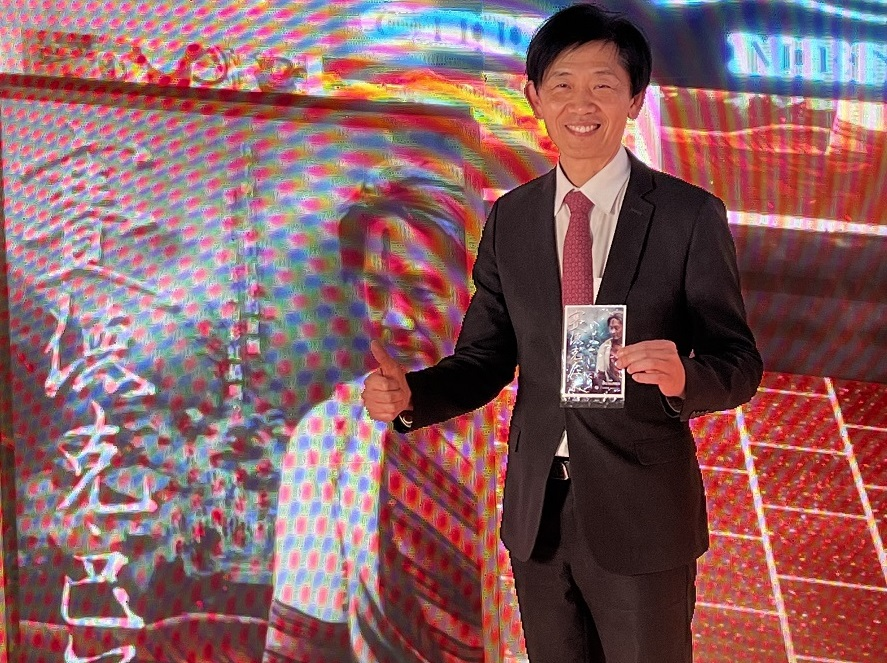
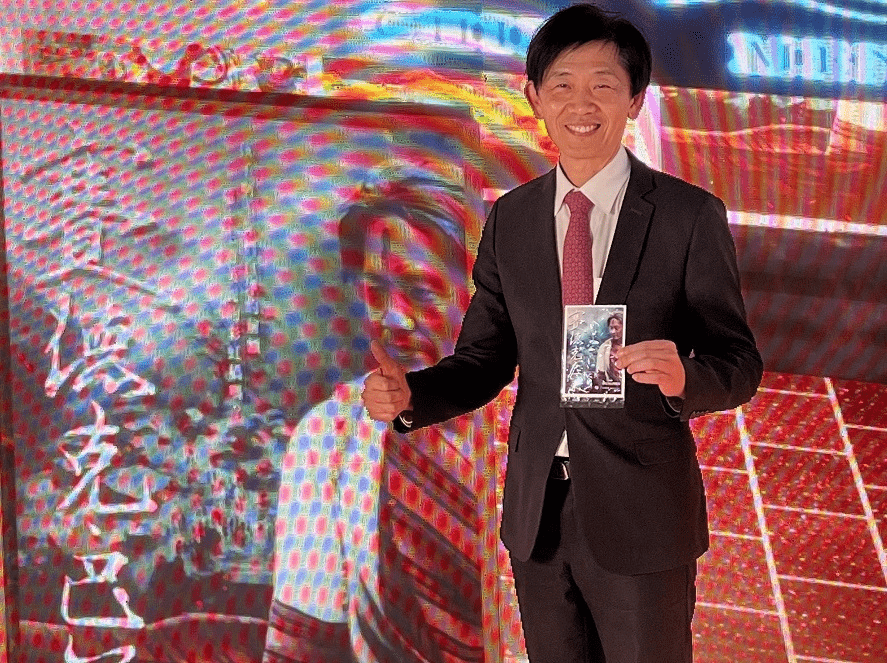
修整AI文件產生問題
- 圖片壓縮
- 文字修正

diff --git a/index.html b/index.html
@@ -1,5 +1,6 @@
 <!DOCTYPE html>
-<html lang="zh-TW" style="font-size: 16px; --primary-color: #000000; --secondary-color: #ffffff; --global-padding: 20px; --global-padding-small: 10px; --global-radius: 18px; --global-size: 80px;">
+<html lang="zh-TW"
+    style="font-size: 16px; --primary-color: #000000; --secondary-color: #ffffff; --global-padding: 20px; --global-padding-small: 10px; --global-radius: 18px; --global-size: 80px;">
 <!--     
             Hello there, nice to see someone who opened the source code of my portfolio.
             I'm Jay Wu, a frontend developer / real-time interactive engineer.
@@ -17,6 +18,7 @@
 
               Pure HTML CSS
 -->
+
 <head>
     <meta charset="UTF-8">
     <meta name="viewport" content="width=device-width, initial-scale=1.0">
@@ -34,15 +36,20 @@
     <main>
         <section id="about">
             <div class="intro-container">
-                <p class="intro-cn">嗨我是 Jay，一位擅長跨領域整合的系統工程師。專業領域涵蓋形象網站開發、網頁動效製作、現場互動體驗以及 VJ 即時投影視覺，致力於打造虛實整合的互動系統。同時專精於效能優化，包括 GPU 算圖加速與 LLM Token 最佳化，確保系統運作流暢高效。</p>
-                <p class="intro-en">Hi, I'm Jay, a System Integration Engineer specializing in cross-disciplinary solutions. My expertise spans brand website development, web animation, on-site interactive installations, and real-time VJ projection mapping, dedicated to creating seamless immersive experiences. I also excel in performance optimization, including GPU rendering acceleration and LLM token optimization, ensuring efficient and smooth system operations.</p>
+                <p class="intro-cn">嗨我是 Jay，一位擅長跨領域整合的系統工程師。專業領域涵蓋形象網站開發、網頁動效製作、現場互動體驗以及 VJ
+                    即時投影視覺，致力於打造虛實整合的互動系統。同時專精於效能優化，包括 GPU 算圖加速與 LLM Token 最佳化，確保系統運作流暢高效。</p>
+                <p class="intro-en">Hi, I'm Jay, a System Integration Engineer specializing in cross-disciplinary
+                    solutions. My expertise spans brand website development, web animation, on-site interactive
+                    installations, and real-time VJ projection mapping, dedicated to creating seamless immersive
+                    experiences. I also excel in performance optimization, including GPU rendering acceleration and LLM
+                    token optimization, ensuring efficient and smooth system operations.</p>
             </div>
         </section>
         <section id="filter">
             <button data-tag="all">All</button>
         </section>
         <section id="projects">
-            
+
         </section>
         <footer>
             <p class="footer-text">adapt it</p>
@@ -66,6 +73,17 @@
             <span>Actually nothing needed to load...</span>
         </div>
     </div>
+    <script async src="https://www.googletagmanager.com/gtag/js?id=G-HZTS9MJ9D8"></script>
+    <script>
+        window.dataLayer = window.dataLayer || [];
+
+        function gtag() {
+            dataLayer.push(arguments);
+        }
+        gtag('js', new Date());
+
+        gtag('config', 'G-HZTS9MJ9D8');
+    </script>
 </body>
 
 </html>

diff --git a/style.css b/style.css
@@ -386,6 +386,27 @@ p {
 
 ul {
   margin-bottom: var(--global-padding-small);
+  padding: var(--global-padding-small) var(--global-padding);
+  position: relative;
+}
+ul li {
+  position: relative;
+}
+ul>li::before {
+  content: "";
+  position: absolute;
+  display: block;
+  width: 0.25rem;
+  height: 0.25rem;
+  right: 100%;
+  top: 0;
+  background-color: var(--primary-color);
+}
+ol {
+  padding: var(--global-padding-small) var(--global-padding);
+  margin-bottom: var(--global-padding-small);
+  line-height: 1.25;
+  list-style-type: decimal;
 }
 li {
   margin-bottom: var(--global-padding-small);

diff --git a/main.js b/main.js
@@ -294,8 +294,8 @@ function bindLoading() {
 		loading.classList.add('hidden');
 		setTimeout(() => {
 			loading.style.display = 'none';
-		}, 2000);
-	}, 1000);
+		}, 1000);
+	}, 700);
 }
 
 function initialize() {
